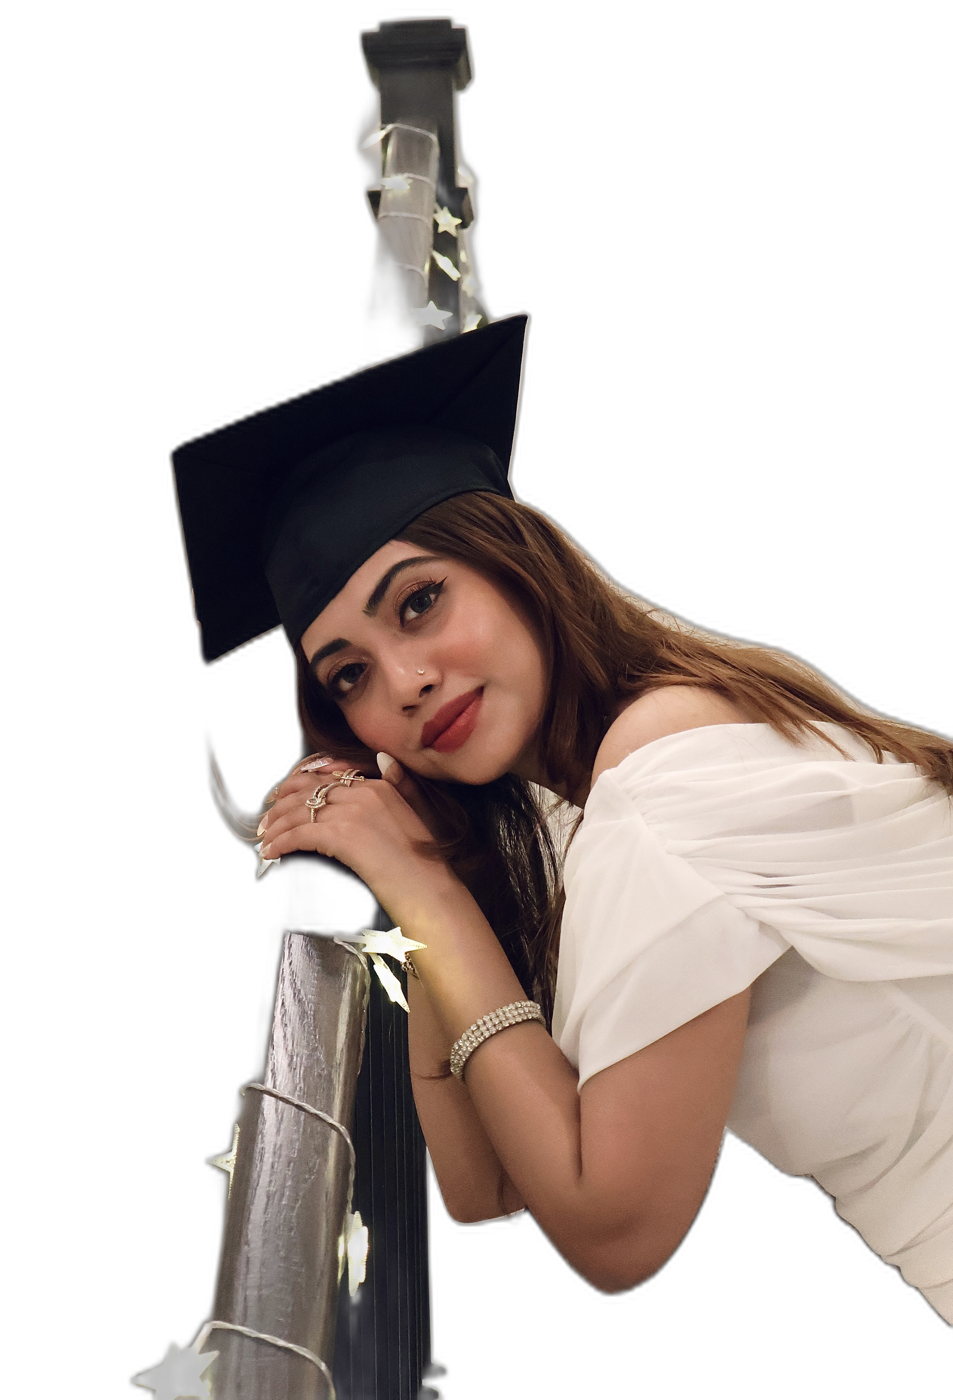
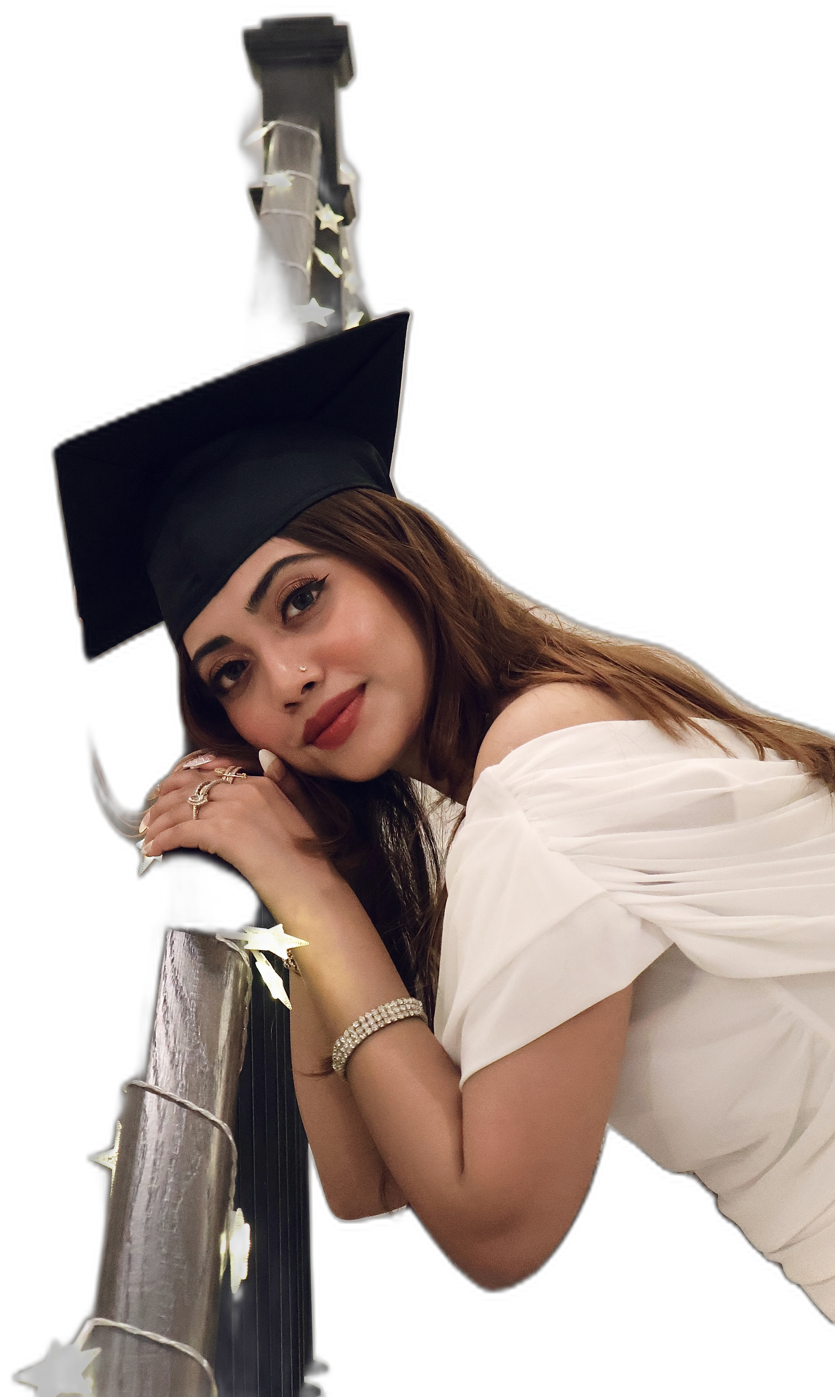
Cluster hero text tight against photo, add NSU relevant courses
- Crop the cutout photo's transparent left padding so the visible
  figure sits flush against its image box edge
- Hero words now cluster vertically near center instead of spreading
  to the top/bottom of a tall column, and sit with zero gap from the
  photo
- Smoother easing on the reveal animation instead of the chunky
  typewriter steps
- Add the 10 relevant courses to the NSU BBA entry

diff --git a/styles.py b/styles.py
@@ -134,16 +134,16 @@ CUSTOM_CSS = f"""
         display: flex;
         align-items: center;
         justify-content: center;
-        gap: clamp(0.25rem, 0.8vw, 0.6rem);
+        gap: 0;
         margin-bottom: 1.5rem;
     }}
     .hero-flank-col {{
         display: flex;
         flex-direction: column;
-        justify-content: space-between;
+        justify-content: center;
+        gap: 0.5rem;
         flex: 0 1 auto;
         min-width: 0;
-        height: 420px;
         padding: 1rem 0;
     }}
     .hero-flank-col-left {{ align-items: flex-end; text-align: right; }}
@@ -158,8 +158,8 @@ CUSTOM_CSS = f"""
         overflow: hidden;
     }}
     .hero-flank-word.accent {{ color: #C2557A; font-weight: 600; font-size: clamp(1.5rem, 4.5vw, 2.8rem); }}
-    .type-left {{ animation: typeInLeft 0.7s steps(10, end) both; }}
-    .type-right {{ animation: typeInRight 0.7s steps(10, end) both; }}
+    .type-left {{ animation: typeInLeft 0.9s cubic-bezier(0.22, 1, 0.36, 1) both; }}
+    .type-right {{ animation: typeInRight 0.9s cubic-bezier(0.22, 1, 0.36, 1) both; }}
     @keyframes typeInLeft {{
         from {{ clip-path: inset(0 100% 0 0); }}
         to {{ clip-path: inset(0 0 0 0); }}

diff --git a/config.py b/config.py
@@ -208,5 +208,17 @@ EDUCATION = [
         "logo": "assets/nsu.jpg",
         "period": "Dec 2022",
         "description": "",
+        "courses": [
+            "Computer Information Systems",
+            "Applied Business Mathematics",
+            "Applied Statistics",
+            "Marketing Analytics",
+            "Marketing Research",
+            "E-Business",
+            "Digital Marketing & Social Networks for Business",
+            "Operations and Supply Chain Management",
+            "Financial Accounting",
+            "Managerial Accounting",
+        ],
     },
 ]
